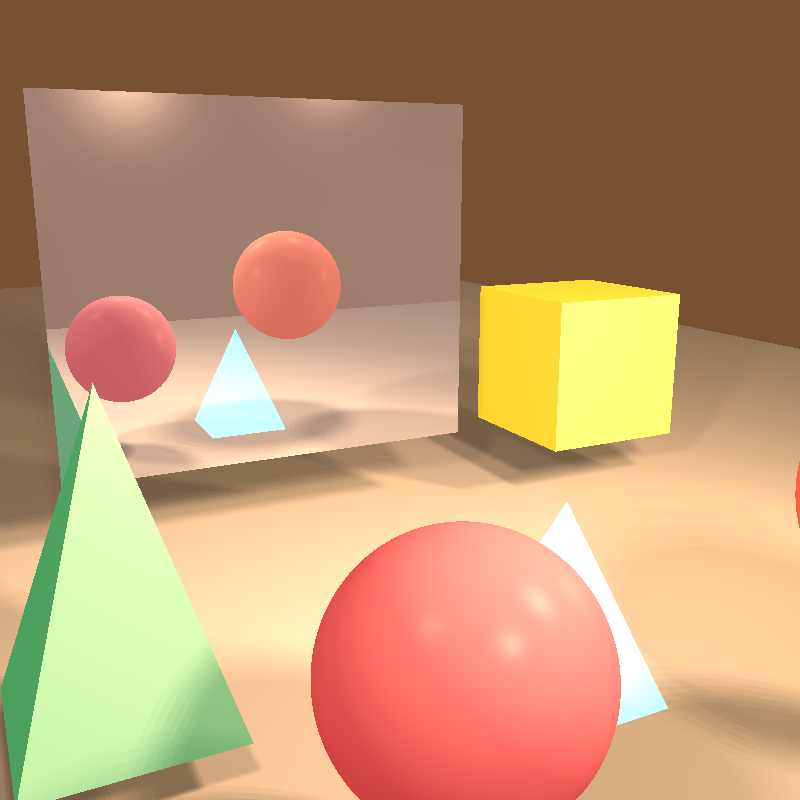
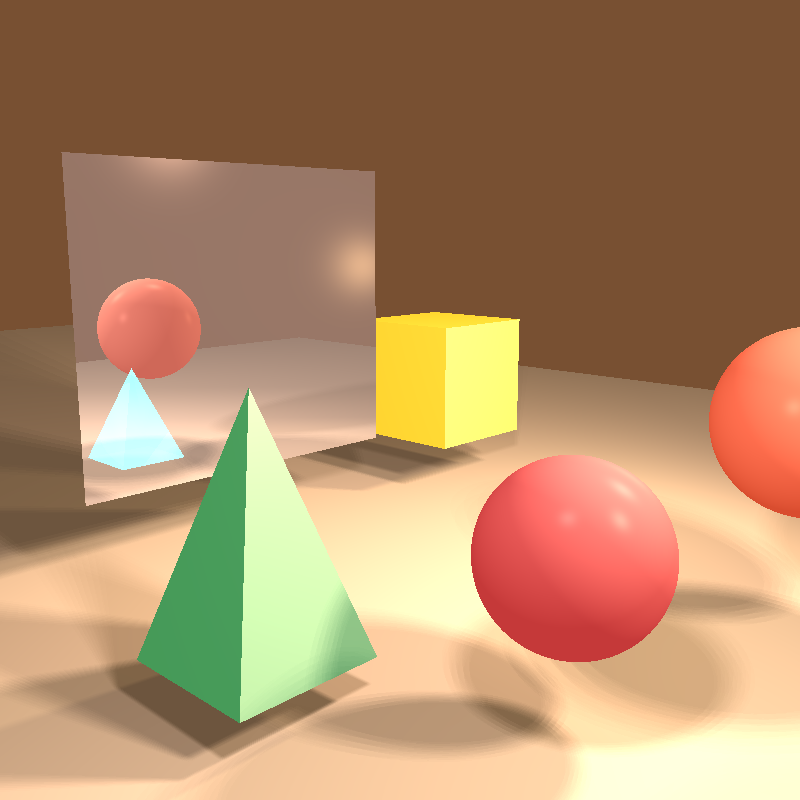
creating image

diff --git a/unittests/renderer/updated_test_class.java b/unittests/renderer/updated_test_class.java
@@ -1,13 +1,12 @@
 package renderer;
-
-import static java.awt.Color.*;
-
 import org.junit.jupiter.api.Test;
-
 import geometries.*;
 import lighting.*;
 import primitives.*;
 import scene.Scene;
+
+import java.util.Random;
+
 
 /**
  * Tests for reflection and transparency functionality, test for partial
@@ -205,6 +204,66 @@ class updated_test_class {
         );
     }
 
+    private Geometries createRandomPyramid(Point baseCenter, double size, double height, Color color) {
+        double half = size / 2;
+        Point apex = baseCenter.add(new Vector(0, height, 0));
+        Point p1 = baseCenter.add(new Vector(-half, 0, -half));
+        Point p2 = baseCenter.add(new Vector(half, 0, -half));
+        Point p3 = baseCenter.add(new Vector(half, 0, half));
+        Point p4 = baseCenter.add(new Vector(-half, 0, half));
+
+        Material mat = new Material().setKD(0.6).setKS(0.4).setShininess(40);
+
+        return new Geometries(
+                new Triangle(p1, p2, p3).setEmission(color).setMaterial(mat),
+                new Triangle(p1, p3, p4).setEmission(color).setMaterial(mat),
+                new Triangle(p1, p2, apex).setEmission(color).setMaterial(mat),
+                new Triangle(p2, p3, apex).setEmission(color).setMaterial(mat),
+                new Triangle(p3, p4, apex).setEmission(color).setMaterial(mat),
+                new Triangle(p4, p1, apex).setEmission(color).setMaterial(mat)
+        );
+    }
+
+    private Sphere createSphere(Point center, double radius, Color color) {
+        return (Sphere) new Sphere(center, radius)
+                .setEmission(color)
+                .setMaterial(new Material().setKD(0.6).setKS(0.3).setShininess(60));
+    }
+
+    private Geometries createTranslucentCube(Point center, double size, Color color) {
+        double half = size / 2;
+        Material material = new Material()
+                .setKD(0.3)      // החזרת אור דיפיוזי
+                .setKS(0.4)      // החזרת אור מבריק
+                .setShininess(100)
+                .setkT(0.5)      // שקיפות מתונה - נראית אך עדיין שקופה
+                .setkR(0.05);    // החזרת אור קלה (רפלקציה)
+
+        Point p1 = center.add(new Vector(-half, -half, -half));
+        Point p2 = center.add(new Vector(half, -half, -half));
+        Point p3 = center.add(new Vector(half, half, -half));
+        Point p4 = center.add(new Vector(-half, half, -half));
+        Point p5 = center.add(new Vector(-half, -half, half));
+        Point p6 = center.add(new Vector(half, -half, half));
+        Point p7 = center.add(new Vector(half, half, half));
+        Point p8 = center.add(new Vector(-half, half, half));
+
+        return new Geometries(
+                new Triangle(p1, p2, p3).setEmission(color).setMaterial(material),
+                new Triangle(p1, p3, p4).setEmission(color).setMaterial(material),
+                new Triangle(p2, p6, p7).setEmission(color).setMaterial(material),
+                new Triangle(p2, p7, p3).setEmission(color).setMaterial(material),
+                new Triangle(p4, p3, p7).setEmission(color).setMaterial(material),
+                new Triangle(p4, p7, p8).setEmission(color).setMaterial(material),
+                new Triangle(p1, p4, p8).setEmission(color).setMaterial(material),
+                new Triangle(p1, p8, p5).setEmission(color).setMaterial(material),
+                new Triangle(p1, p5, p6).setEmission(color).setMaterial(material),
+                new Triangle(p1, p6, p2).setEmission(color).setMaterial(material),
+                new Triangle(p5, p8, p7).setEmission(color).setMaterial(material),
+                new Triangle(p5, p7, p6).setEmission(color).setMaterial(material)
+        );
+    }
+
     /**
      * Test without soft shadows
      */
@@ -268,30 +327,6 @@ class updated_test_class {
                 .setKc(1).setKl(0.0003).setKq(0.000003)
         );
 
-        //מקור
-        // Lighting setup
-//        scene.setAmbientLight(new AmbientLight(new Color(20, 20, 20)));
-//
-//        scene.lights.add(new DirectionalLight(
-//                new Color(150, 120, 100),
-//                new Vector(1, -1, -1)
-//        ));
-//
-//        // Regular lights without soft shadows (size = 0)
-//        scene.lights.add(new SpotLight(
-//                new Color(100, 80, 60),
-//                new Point(60, 80, 80),
-//                new Vector(-1, -1.5, -1))
-//                .setRadius(0)  // No soft shadows
-//                .setKc(1).setKl(0.0001).setKq(0.000001)
-//        );
-//
-//        scene.lights.add(new PointLight(
-//                new Color(80, 60, 40),
-//                new Point(-50, 50, 150))
-//                .setRadius(0)  // No soft shadows
-//                .setKc(1).setKl(0.0001).setKq(0.000001)
-//        );
 
         // Build camera
         cameraBuilder
@@ -334,7 +369,7 @@ class updated_test_class {
 
 
         // Improved lighting setup
-        scene.setAmbientLight(new AmbientLight(new Color(25, 25, 25))); // Slightly brighter ambient
+        scene.setAmbientLight(new AmbientLight(new Color(17, 17, 17))); // Slightly brighter ambient
 
         // Replace DirectionalLight with softer, positioned light source
         scene.lights.add(new PointLight(
@@ -355,7 +390,7 @@ class updated_test_class {
 
         // Fill light to reduce harsh shadows
         scene.lights.add(new PointLight(
-                new Color(60, 50, 40),    // Dimmer fill light
+                new Color(80, 70, 65),    // Dimmer fill light
                 new Point(-80, 60, 100))
                 .setRadius(8)             // Soft shadows
                 .setKc(1).setKl(0.0002).setKq(0.000002)
@@ -370,35 +405,9 @@ class updated_test_class {
                 .setKc(1).setKl(0.0003).setKq(0.000003)
         );
 
-
-        //מקור
-        // Lighting setup
-//        scene.setAmbientLight(new AmbientLight(new Color(20, 20, 20)));
-
-//        scene.lights.add(new DirectionalLight(
-//                new Color(150, 120, 100),
-//                new Vector(1, -1, -1)
-//        ));
-//
-//        // Regular lights without soft shadows (size = 0)
-//        scene.lights.add(new SpotLight(
-//                new Color(100, 80, 60),
-//                new Point(60, 80, 80),
-//                new Vector(-1, -1.5, -1))
-//                .setRadius(10)
-//                .setKc(1).setKl(0.0001).setKq(0.000001)
-//        );
-//
-//        scene.lights.add(new PointLight(
-//                new Color(80, 60, 40),
-//                new Point(-50, 50, 150))
-//                .setRadius(10)
-//                .setKc(1).setKl(0.0001).setKq(0.000001)
-//        );
-
         // Build camera
         cameraBuilder
-                .setLocation(new Point(-90, 50, 180))
+                .setLocation(new Point(-190, 50, 180))
                 .setDirection(new Point(-1, 0, 1), new Vector(0, 1, 0))
                 .setVpDistance(180)
                 .setVpSize(160, 160)
@@ -407,4 +416,103 @@ class updated_test_class {
                 .renderImage()
                 .writeToImage("jhj____Shadows");
     }
+
+    @Test
+    void createSceneWithMultipleGeometriesSoftShadows() {
+        // Set up scene
+        scene.setBackground(new Color(120, 80, 50));
+        scene .geometries.add(createRealisticFloor(-60, 400));
+        scene.geometries.add(createLargeMirror());
+        scene.geometries.add(createEnhancedPyramid());
+        scene.geometries.add(createSmallTealPyramid());
+
+// בסיס
+        scene.geometries.add(createRealisticFloor(-60, 400));
+        scene.geometries.add(createLargeMirror());
+
+// הוספת 15 פירמידות
+        for (int i = 0; i < 10; i++) {
+            double x = -140 + (i % 5) * 70;
+            double z = -100 + (i / 5) * 80;
+            Point center = new Point(x, -60, z);
+            scene.geometries.add(createRandomPyramid(center, 30, 40, new Color(30 + i * 10, 100 + (i * 5) % 100, 60 + (i * 7) % 150)));
         }
+
+//// הוספת 10 כדורים
+        Random rand = new Random();
+
+        for (int i = 0; i < 10; i++) {
+            double x = -120 + rand.nextDouble() * 240;  // בין -120 ל-120
+            double z = 120 + rand.nextDouble() * 100;   // רחוק מהפירמידות
+            double y = -30;
+
+            Point center = new Point(x, y, z);
+            double radius = 8 + rand.nextDouble() * 4;
+
+            int r = 80 + rand.nextInt(100);
+            int g = 50 + rand.nextInt(100);
+            int b = 80 + rand.nextInt(100);
+            Color color = new Color(r, g, b);
+
+            scene.geometries.add(createSphere(center, radius, color));
+        }
+        for (int i = 0; i < 5; i++) {
+            double x = -80 + i * 40;  // מרווחים אופקיים בין קוביות
+            double y = -45;           // גובה הקוביות
+            double z = 150;           // אותו עומק של הכדורים
+
+            Point center = new Point(x, y, z);
+            Color color = new Color(100 + i * 20, 80 + i * 10, 150 - i * 10);  // צבע משתנה לכל קוביה
+
+            scene.geometries.add(createTranslucentCube(center, 25, color));  // גודל 25, קוביה שקופה
+        }
+
+        // Improved lighting setup
+        scene.setAmbientLight(new AmbientLight(new Color(17, 17, 17))); // Slightly brighter ambient
+
+        // Replace DirectionalLight with softer, positioned light source
+        scene.lights.add(new PointLight(
+                new Color(120, 100, 80),  // Softer, warmer general illumination
+                new Point(0, 100, 200))   // High and distant for general lighting
+                .setRadius(15)            // Soft shadows
+                .setKc(1).setKl(0.00005).setKq(0.0000005)
+        );
+
+        // Main spotlight for dramatic effect
+        scene.lights.add(new SpotLight(
+                new Color(140, 110, 90),
+                new Point(80, 100, 120),
+                new Vector(-1, -1.2, -1))
+                .setRadius(12)  // Soft shadows
+                .setKc(1).setKl(0.0001).setKq(0.000001)
+        );
+
+        // Fill light to reduce harsh shadows
+        scene.lights.add(new PointLight(
+                new Color(80, 70, 65),    // Dimmer fill light
+                new Point(-80, 60, 100))
+                .setRadius(8)             // Soft shadows
+                .setKc(1).setKl(0.0002).setKq(0.000002)
+        );
+
+        // Accent light for the golden cube
+        scene.lights.add(new SpotLight(
+                new Color(100, 80, 50),
+                new Point(150, 30, 50),
+                new Vector(-1, -0.5, -1))
+                .setRadius(6)   // Smaller radius for more defined but still soft shadows
+                .setKc(1).setKl(0.0003).setKq(0.000003)
+        );
+
+        // Build camera
+        cameraBuilder
+                .setLocation(new Point(50, 20, 440)) // יותר רחוק, שומר על אותו קו מבט
+                .setDirection(new Point(-10, 20, -60), new Vector(0, 1, 0)) // עדיין מביט על המראה
+                .setVpDistance(180)
+                .setVpSize(160, 160)
+                .setResolution(800, 800)
+                .build()
+                .renderImage()
+                .writeToImage("multiply_amount_of_geometries_with_soft_shadows");
+    }
+}
